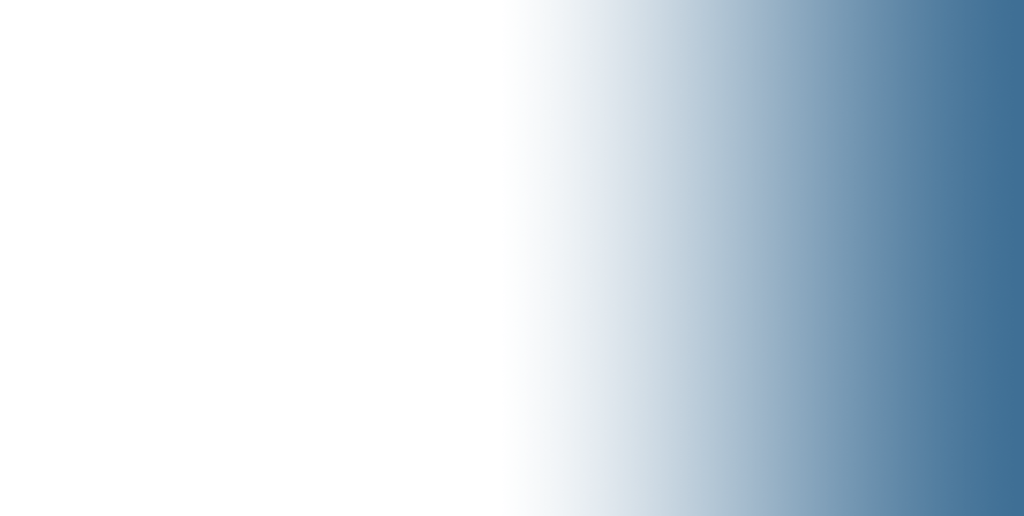
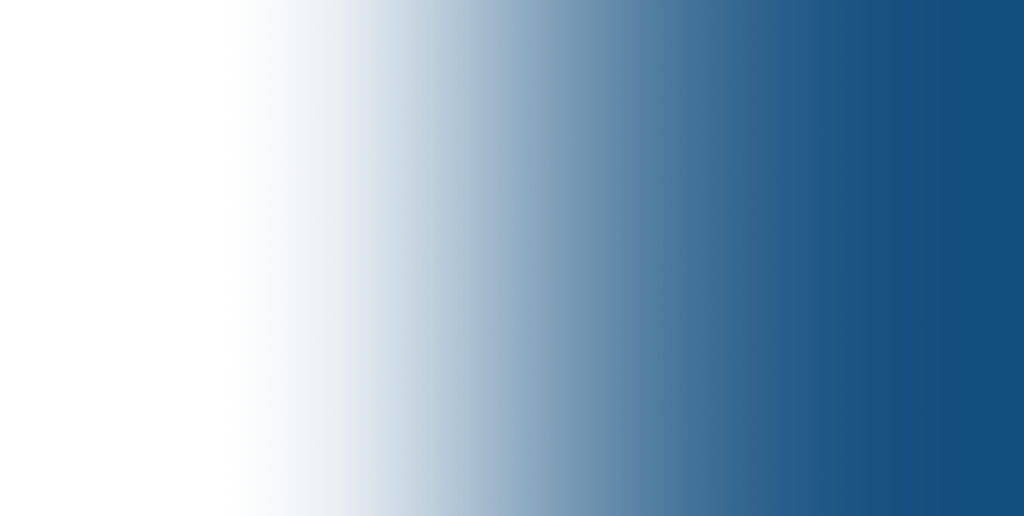
added NOO app

diff --git a/SpinnerTest/Spinner/index.html b/SpinnerTest/Spinner/index.html
@@ -14,6 +14,7 @@
         function togglePopup(id) {
             var popup = document.getElementById(id);
             popup.classList.toggle("show");
+            toggleHide("dim");
             if (!popup.classList.contains("show")) wheelOptions.canSpin = true;
         }
         function toggleHide(tagName) {
@@ -25,20 +26,24 @@
             }
         }
         function setVariable(variableName, variableValue) {
-            window.parent.window.cpAPIInterface.setVariableValue("SpinCount", "4");
+            window.parent.window.cpAPIInterface.setVariableValue("SpinnerActivity", "4");
         }
     </script>
 
 </head>
 
 <body>
+    <div class="dim hide"></div>
     <div class="popup" id="one">
+
         <div class="content">
-            <h1>Joe's Reaction</h1>
+            <img class="profilePic" src="src/img/pics/Customer1.png">
+            <h1 class="name">Joe's Reaction</h1>
             <p>“I don’t want another rewards app taking up space on my phone.”
             </p>
-            <h1>Responses</h1>
-            <p>“You don’t need to download an app to use My GM Rewards. The My Brand App is just one way customers can
+            <h1>Response</h1>
+            <p>“You don’t need to download an app to use My GM Rewards. The My Brand App is just one way customers
+                can
                 view
                 and redeem points. You can also view and redeem points using the My GM Rewards website.”
             </p>
@@ -48,11 +53,13 @@
 
         <img class="exitButton" src="src/img/Icons/close.png" onclick="togglePopup('one')">
     </div>
+
     <div class="popup" id="two">
         <div class="content">
-            <h1>Megan's Reaction</h1>
+            <img class="profilePic" src="src/img/pics/Customer2.png">
+            <h1 class="name">Megan's Reaction</h1>
             <p>“Sorry, I don’t want to sign up for another program. I get enough emails.”</p>
-            <h1>Responses</h1>
+            <h1>Response</h1>
             <p>“I hear you. That’s why My GM Rewards will only email you with good news emails—for example, when you
                 have points to spend. ” 
                 <br><br>
@@ -65,9 +72,10 @@
     </div>
     <div class="popup" id="three">
         <div class="content">
-            <h1>Luis's Reaction</h1>
+            <img class="profilePic" src="src/img/pics/Customer3.png">
+            <h1 class="name">Luis's Reaction</h1>
             <p>“Sounds good. Sign me up!”</p>
-            <h1>Responses</h1>
+            <h1>Response</h1>
             <p>“Great! It’s easy. I’ll show you how."</p>
             <p class="prompt" tag="spinAgain">Close this window and spin again to see another reaction.</p>
             <p class="prompt hide" tag="continue">Click next to continue.</p>
@@ -76,9 +84,10 @@
     </div>
     <div class="popup" id="four">
         <div class="content">
-            <h1>Kate's Reaction</h1>
+            <img class="profilePic" src="src/img/pics/Customer4.png">
+            <h1 class="name">Kate's Reaction</h1>
             <p>“No, I’m not interested in signing up.”</p>
-            <h1>Responses</h1>
+            <h1>Response</h1>
             <p>
                 Accept their refusal graciously and transition out of the My GM Rewards conversation:
                 “Of course, I can respect that. Let me show you that feature you had questions about."

diff --git a/SpinnerTest/Spinner/css/style.css b/SpinnerTest/Spinner/css/style.css
@@ -1,69 +1,4 @@
 .clickable{
-  position: relative;
-display: inline-block;
-  cursor:pointer;
-  -webkit-user-select: none;
--moz-user-select: none;
--ms-user-select: none;
-user-select: none;
-margin: auto;
-}
-.popup{
-  visibility: hidden;
-  position: absolute;
-  background: #ffffff;
-  background: rgb(255, 255, 255);
-  display: flex;
-  top: 50px;
-  width: 60%;
-  height:425px;
-  max-width: 700px;
-  min-width: 400px;
-  left: 20%;
-  transform: translate(0px);
-  z-index: 1;
-  flex-direction: column;
-  border-style : Solid;
-  border-width: 3px;
-  border-color : #138f9c;
-  border-color : rgba(19, 143, 156, 1);
-  margin:auto;
-  padding-top: 0;
-}
-.prompt{
-font-weight: bold;
-font-size: larger;
-}
-.show{
-  visibility: visible;
-}
-.hide{
-visibility:hidden;
-}
-.exitButton {
-
-position: absolute;
-right:0px;
-padding: 10px;
-cursor: pointer;
-z-index: 50;
-line-height: 1px;
-}
-.content{
-padding: 10px 110px 10px 35px;
-}
-body{
-padding:0;
-margin:0;
-font-family: Arial, Helvetica, sans-serif;
-
-}
-h1{
-color: #138f9c;
-}
-iframe{
-margin:auto;
-}.clickable{
     position: relative;
   display: inline-block;
     cursor:pointer;
@@ -80,29 +15,32 @@ margin:auto;
     background: rgb(255, 255, 255);
     display: flex;
     top: 50px;
-    width: 700px;
+    width: 80%;
     height:425px;
-    max-width: 700px;
+    max-width: 800px;
     min-width: 400px;
-    left: 100px;
+    left: 10%;
     transform: translate(0px);
     z-index: 1;
     flex-direction: column;
     border-style : Solid;
-    border-width: 3px;
-    border-color : #138f9c;
-    border-color : rgba(19, 143, 156, 1);
+    border-width: 0px;
+    border-color : #114d7d;
+    border-color : rgba(17,77,125, 1);
     margin:auto;
     padding-top: 0;
 }
  .show{
     visibility: visible;
+    -webkit-animation: fadeIn 1s;
+  animation: fadeIn 1s
 }
 .exitButton {
   
   position: absolute;
-  right:0px;
-  padding: 10px;
+  right:-15px;
+  top:-15px;
+  padding: 0px;
   cursor: pointer;
   z-index: 50;
   line-height: 1px;
@@ -117,8 +55,60 @@ body{
   
 }
 h1{
-  color: #138f9c;
+  position: relative;
+  color: #114d7d;
+  z-index: 50;
+  left:50%;
+  font-size: x-large;
+}
+p{
+  position: relative;
+  left:50%;
+  width:55%;
 }
 iframe{
   margin:auto;
+}
+.hide{
+  visibility:hidden;
+ }
+.prompt{
+  position: absolute;
+  font-weight: bold;
+  font-size: larger;
+  left:45%;
+  padding:0;
+  top:80%;
+  
+}
+.dim{
+  position: absolute;
+  top:0;
+  left:0;
+  width:100%;
+  height:100%;
+  background-color: rgba(0,0,0,.5);
+}
+.profilePic{
+  position: absolute;;
+  height:425px;
+  padding:0;
+  margin:0;
+  left:0;
+  top:0;
+  z-index: -10;
+  
+}
+.name{
+  position: relative;
+  font-size: x-large;
+}
+@-webkit-keyframes fadeIn {
+  from {opacity: 0;}
+  to {opacity: 1;}
+}
+
+@keyframes fadeIn {
+  from {opacity: 0;}
+  to {opacity:1 ;}
 }

diff --git a/SpinnerTest/Spinner/src/js/Spinner.js b/SpinnerTest/Spinner/src/js/Spinner.js
@@ -3,7 +3,14 @@ class Spinner extends Phaser.Scene {
         super("spinner");
     }
     preload() {
+        //////////////////////////////////////////////////
+        ///////THE BACKGROUND IMAGE IS LOADED HERE////////
+        //////////////////////////////////////////////////
         this.load.image('bg', './src/img/bg.png');
+
+        //////////////////////////////////////////////////
+        /////////THE MARKER IMAGE IS LOADED HERE//////////
+        //////////////////////////////////////////////////
         this.load.image('marker', './src/img/Marker.png');
     }
     create() {
@@ -25,16 +32,9 @@ class Spinner extends Phaser.Scene {
             graphics.lineStyle(wheelOptions.strokeWidth, wheelOptions.strokeColor, 1);
             graphics.slice(wheelOptions.wheelRadius + wheelOptions.strokeWidth, wheelOptions.wheelRadius + wheelOptions.strokeWidth, wheelOptions.wheelRadius, Phaser.Math.DegToRad(startDegrees), Phaser.Math.DegToRad(startDegrees + wheelOptions.slices[i].degrees), false);
             graphics.strokePath();
-            /*let wedgeText = this.add.text(0, 0, wheelOptions.slices[i].text, { fontFamily: '"Arial"' });
-            wedgeText.setOrigin(.5);
-            wedgeText.setAlign('center');
-            wedgeText.rotation = Phaser.Math.DegToRad(startDegrees + (wheelOptions.slices[i].degrees / 2) + 90);
-            wedgeText.x = Math.cos(Phaser.Math.DegToRad(startDegrees + (wheelOptions.slices[i].degrees / 2))) * 100;
-            wedgeText.y = Math.sin(Phaser.Math.DegToRad(startDegrees + (wheelOptions.slices[i].degrees / 2))) * 100;
-            this.wheelContainer.add(wedgeText);*/
             startDegrees += wheelOptions.slices[i].degrees;
-
         }
+
         graphics.generateTexture("wheel", (wheelOptions.wheelRadius + wheelOptions.strokeWidth) * 2, (wheelOptions.wheelRadius + wheelOptions.strokeWidth) * 2);
         var wheel = this.add.sprite(0, 0, "wheel");
         wheel.setInteractive();
@@ -80,7 +80,6 @@ class Spinner extends Phaser.Scene {
 
             //execute this when tween is done
             onComplete: function (tween) {
-
                 switch (wheelOptions.remainingDegrees[degreesIndex]) {
                     case 0:
                         togglePopup('one');

diff --git a/SpinnerTest/Spinner/src/js/game.js b/SpinnerTest/Spinner/src/js/game.js
@@ -1,34 +1,32 @@
 var config = {
-    width: 1024,
-    height: 516,
+    width: window.innerWidth,
+    height: window.innerHeight,
     backgroundColor: 0xffffff,
     scene: [Spinner]
 }
 const wheelOptions = {
+    ///////////////////////////////////////////////
+    ///////CONTROLS THE WEDGES ON THE WHEEL////////
+    ///////////////////////////////////////////////
     slices: [{
         degrees: 90,
-        color: 0xaabb00,
-        text: "Customer 1",
-        id: "one"
+        color: 0x114d7d,
     },
     {
         degrees: 90,
-        color: 0x00aabb,
-        text: "Customer 2",
-        id: "one"
+        color: 0xe6e6e6,
     },
     {
         degrees: 90,
-        color: 0xaa00bb,
-        text: "Customer 3",
-        id: "one"
+        color: 0x043257,
     },
     {
         degrees: 90,
-        color: 0xa0b0c0,
-        text: "Customer 4",
-        id: "one"
+        color: 0x4d4d4d,
     }],
+    ///////////////////////////////////////////////
+    ///////////////////////////////////////////////
+    ///////////////////////////////////////////////
     rotationTimeRange: {
         min: 3000,
         max: 4000
